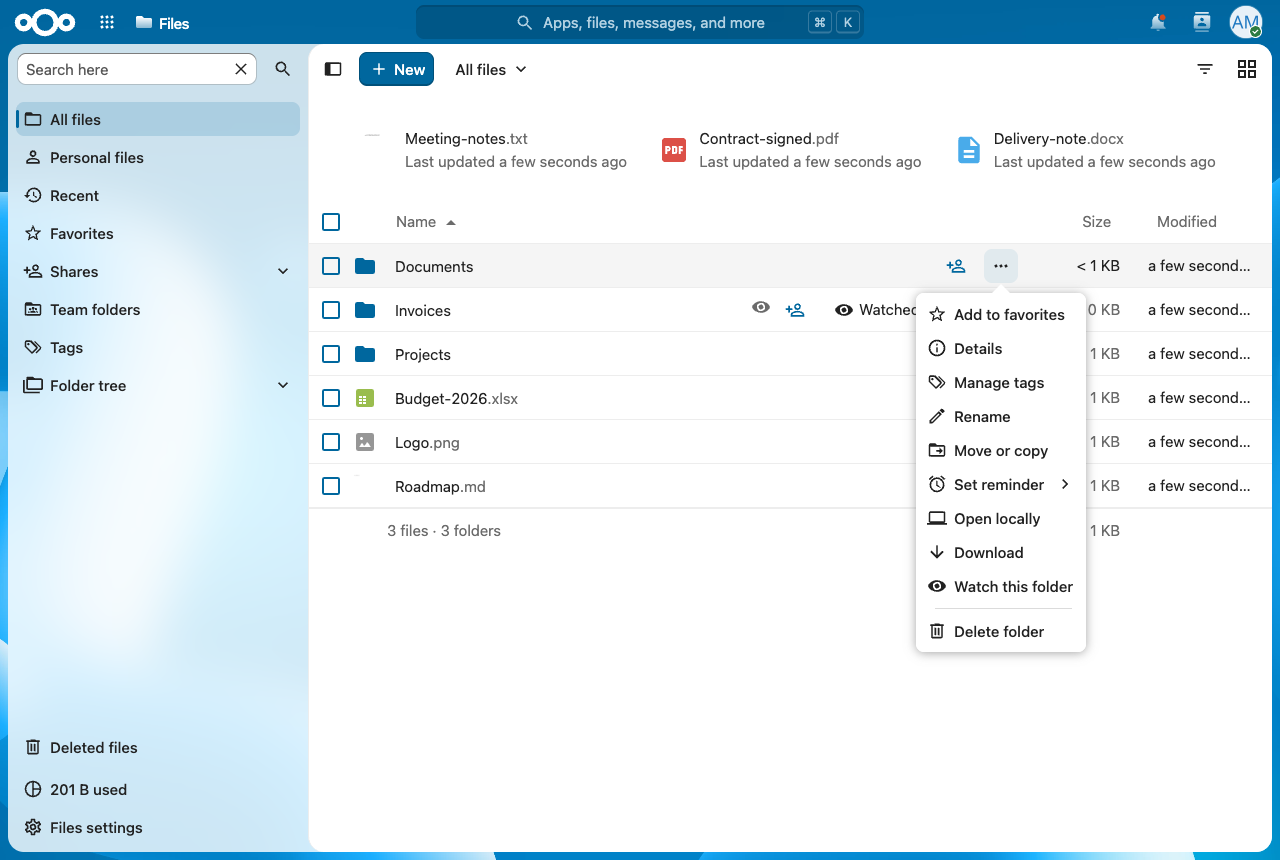
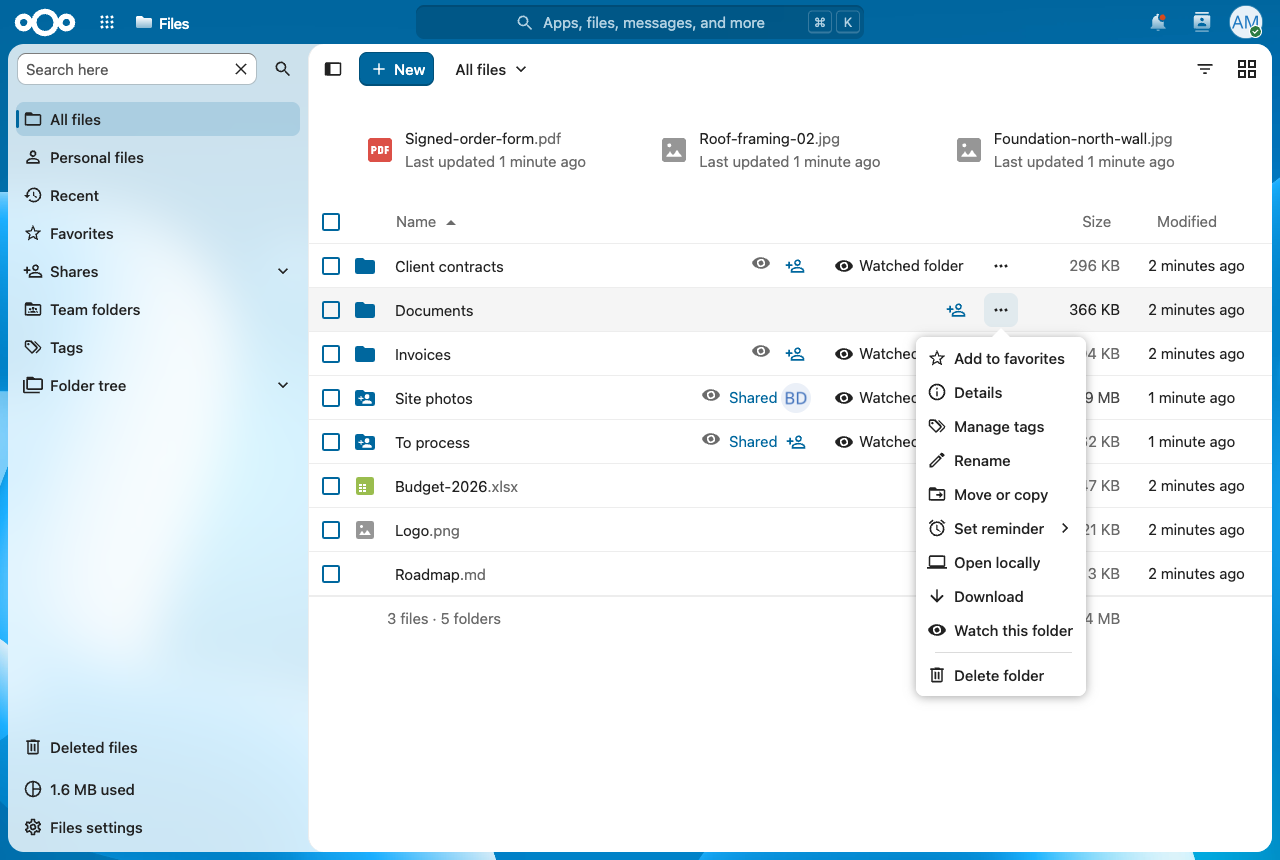
App Store listing improvements
New screenshots, a fuller description in English and French, documentation
and website links. No change to the code of the app.

diff --git a/CHANGELOG.md b/CHANGELOG.md
@@ -9,6 +9,19 @@ All notable changes to Folder Watch are documented here.
 The format follows [Keep a Changelog](https://keepachangelog.com/en/1.1.0/) and the project uses
 [Semantic Versioning](https://semver.org/).
 
+## 1.0.2 - 2026-11-02
+
+Presentation only: no change to the code of the app.
+
+### Changed
+
+- App Store listing improvements: new screenshots (personal settings with four watched folders as the first one,
+  the "Watch this folder" action, a grouped notification, the e-mail, the administration page), declared with public
+  URLs; a longer description with features, how it works and requirements, in English and French; links to the
+  README, the issues and this changelog; documentation links for users and administrators, and the project website.
+- Screenshots in `screenshots/en` and `screenshots/fr` are regenerated from a new demo scene
+  (`tools/seed-demo.sh`, `tools/screenshots.mjs`) with neutral data and no local address visible.
+
 ## 1.0.1 - 2026-10-27
 
 Initial release.
